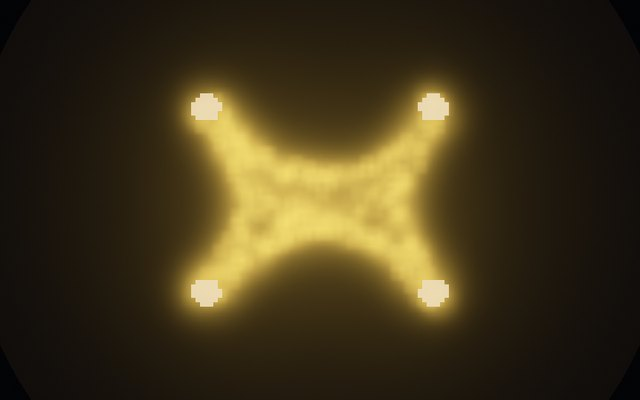
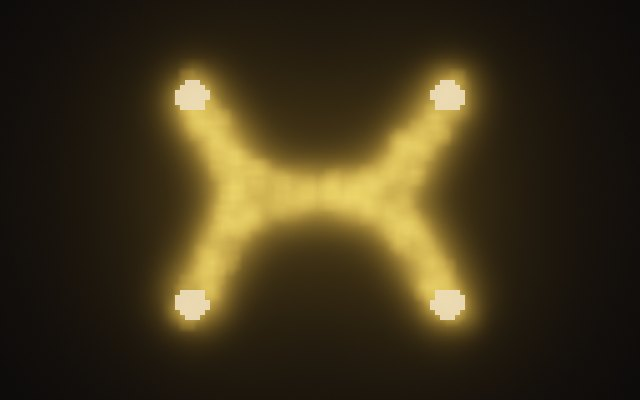
Show the Steiner tree as it ends now, and list the levels tests again
docs/images/steiner.jpg showed the thick cross of density 0.02. It is
now the gallery render at density 0.012 (GALLERY=steiner
STEPS=1000,3000,6000, seed 7, 1280 x 800, step 6,000, the same 640 x 400
center crop and JPEG quality as before): two three-way junctions joined
by a short bridge.

The tests table had dropped "levels" from the unit tests, which still
test auto levels (exposure.test.ts).

Changed region(s): [[0.2188, 0.15, 0.7812, 0.87], [0.625, 0.12, 0.7812, 0.45]]

diff --git a/README.md b/README.md
@@ -69,11 +69,11 @@ pre-commit install   # hooks for commit and push
 
 Tests:
 
-| Command            | What                                                                                        |
-| ------------------ | ------------------------------------------------------------------------------------------- |
-| `npm test`         | unit tests (parameters, presets and their texts, URL parsing with fuzzing, packing, colors) |
-| `npm run test:gpu` | shaders compile; every model rule on **both** backends, mass balance, determinism, Fig. 10  |
-| `npm run test:e2e` | the built app in Chromium: boot, WebGL2 fallback, tools, presets, keyboard, axe a11y scan   |
+| Command            | What                                                                                                |
+| ------------------ | --------------------------------------------------------------------------------------------------- |
+| `npm test`         | unit tests (parameters, presets and their texts, URL parsing with fuzzing, packing, colors, levels) |
+| `npm run test:gpu` | shaders compile; every model rule on **both** backends, mass balance, determinism, Fig. 10          |
+| `npm run test:e2e` | the built app in Chromium: boot, WebGL2 fallback, tools, presets, keyboard, axe a11y scan           |
 
 GPU tests use the real GPU locally and SwiftShader on GPU-less CI.
 
